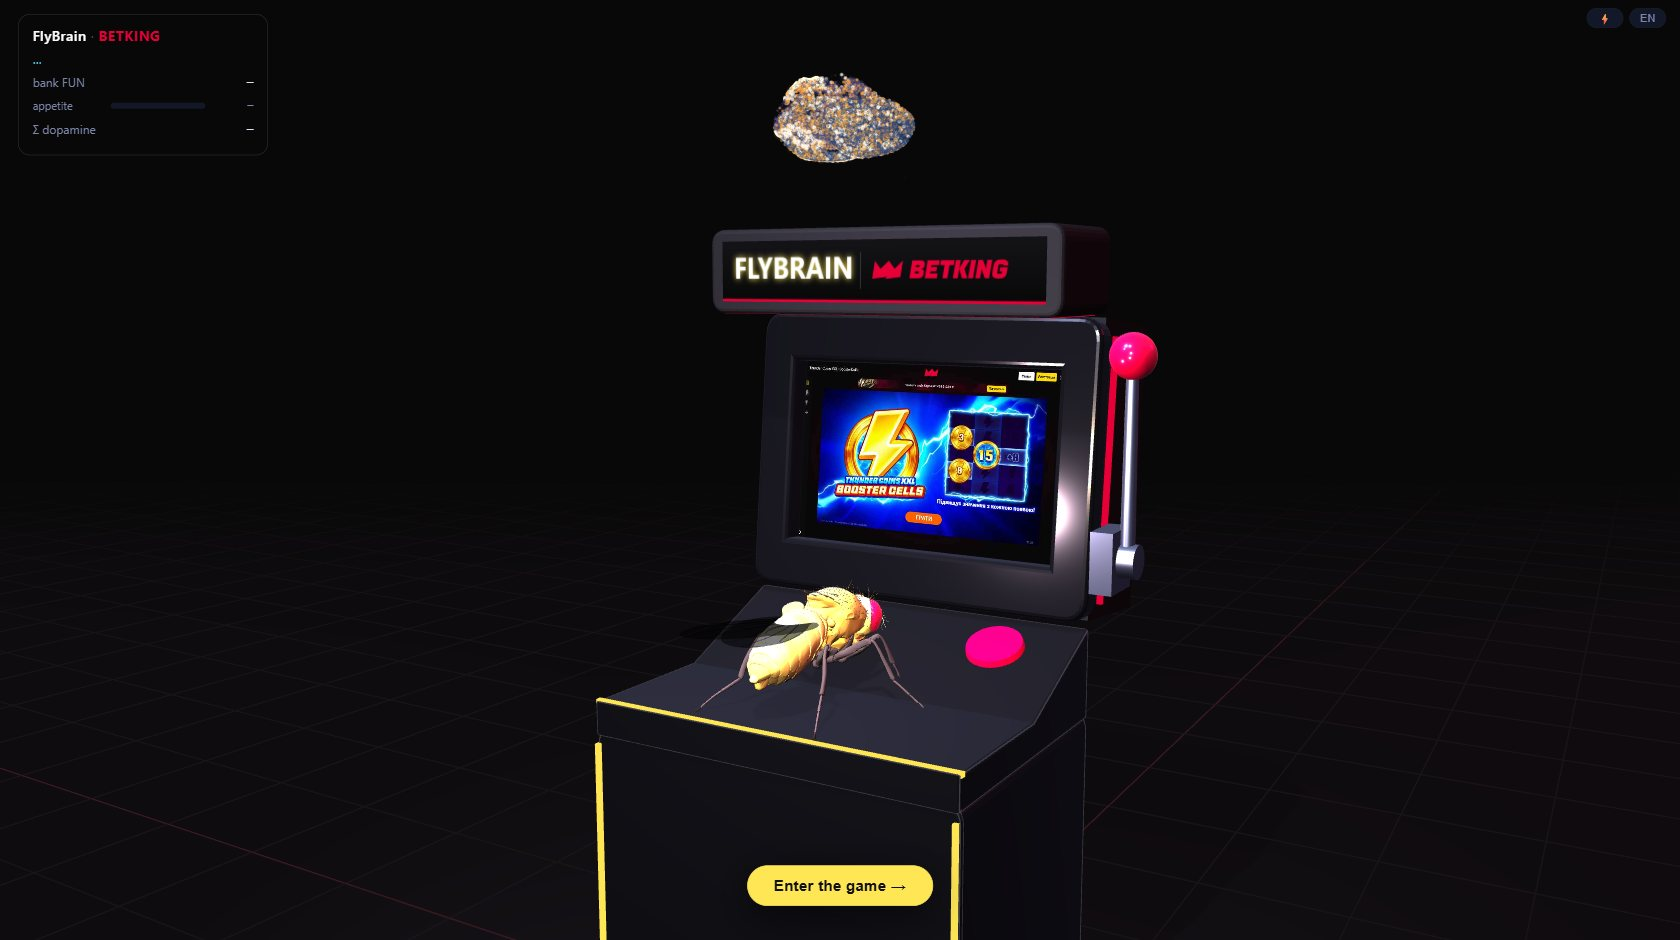
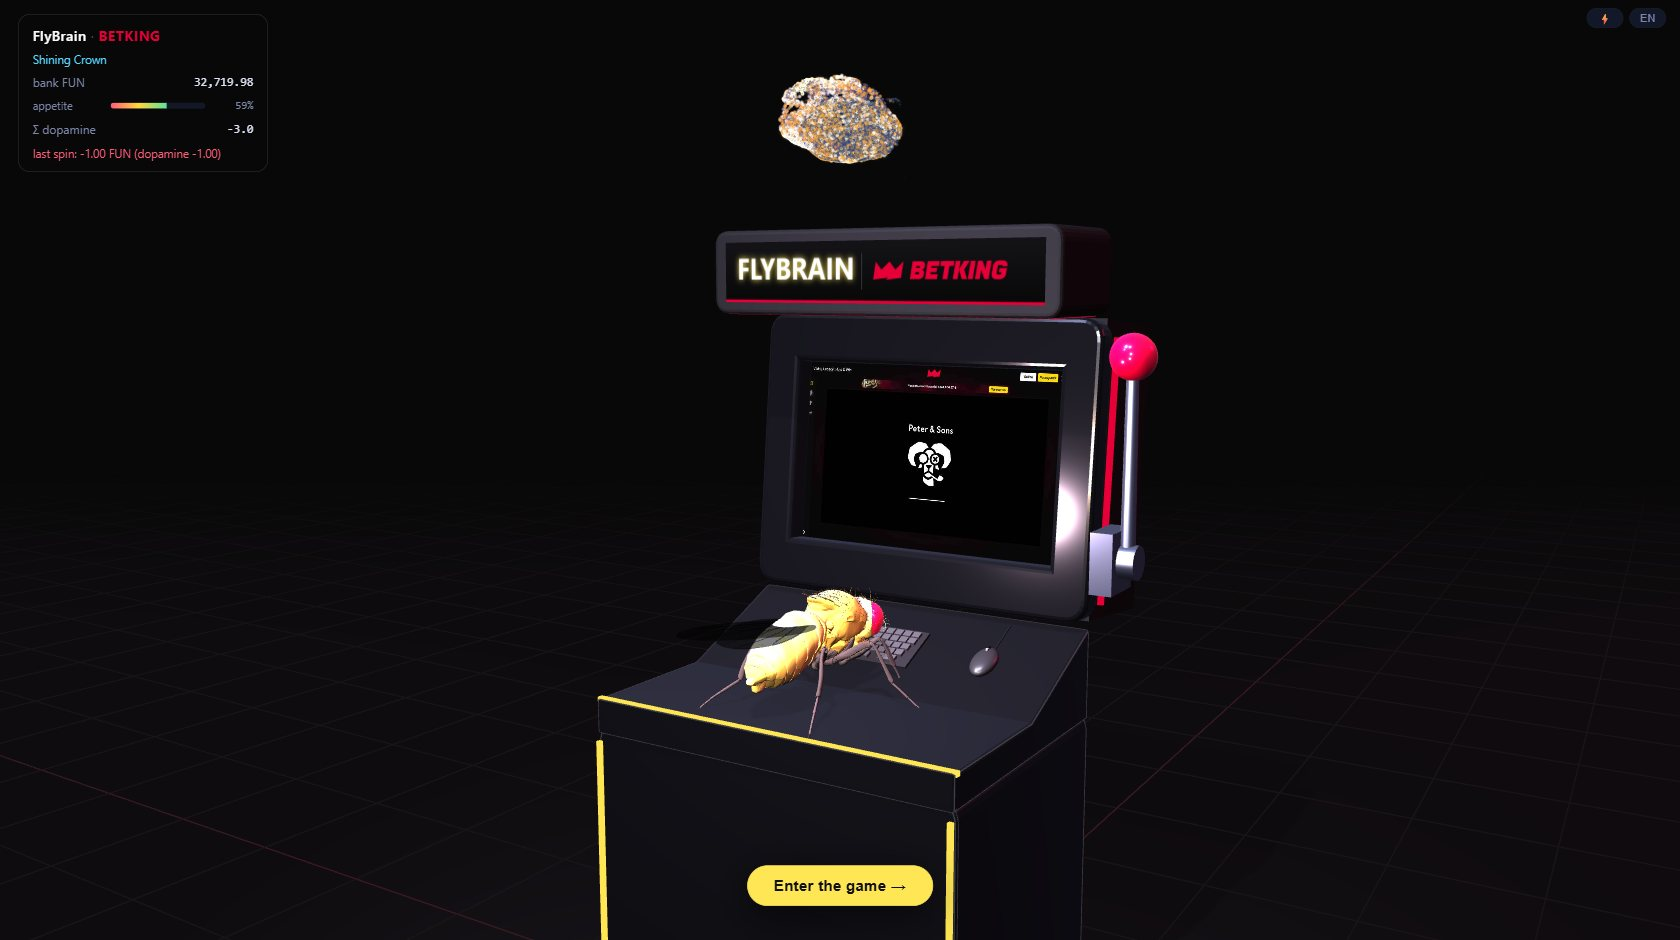
arcade: mini keyboard + mouse on the deck instead of the big button (mouse clicks on decisions, space bar for Space actions); model load retries instead of a placeholder sphere (the giant ball after a restart); casino: guard failures leave the game instead of crashing, reset() retries the site; gene

diff --git a/viz/index.html b/viz/index.html
@@ -509,7 +509,7 @@ async function loadBrain() {
   haloPrev = new Uint8Array(HN); haloCur = new Uint8Array(HN); haloIdx = hidx;
   hgeo.setAttribute('position', new THREE.BufferAttribute(hp, 3)); hgeo.setAttribute('aBase', new THREE.BufferAttribute(hb, 3)); hgeo.setAttribute('aGroup', new THREE.BufferAttribute(hg, 1));
   hgeo.setAttribute('aPrev', new THREE.BufferAttribute(haloPrev, 1, true)); hgeo.setAttribute('aCur', new THREE.BufferAttribute(haloCur, 1, true));
-  halo = new THREE.Points(hgeo, haloMat); points = new THREE.Points(geo, brainMat); if (lite) { renderer.shadowMap.enabled = false; halo.visible = false; brainMat.uniforms.uPixelRatio.value = haloMat.uniforms.uPixelRatio.value = 1; }
+  halo = new THREE.Points(hgeo, haloMat); points = new THREE.Points(geo, brainMat); if (lite) { halo.visible = false; brainMat.uniforms.uPixelRatio.value = haloMat.uniforms.uPixelRatio.value = 1; }
   geo.computeBoundingBox(); brainMid = (geo.boundingBox.min.y + geo.boundingBox.max.y) / 2;
   { let lo = 1e9, hi = -1e9; for (let i = 0; i < N; i++) { const y = posArr[i * 3 + 1]; if (y < NECK) continue; if (y < lo) lo = y; if (y > hi) hi = y; } brainTop = (lo + hi) / 2; }   // centre of the brain proper (above the neck)
   brainGroup.add(halo); brainGroup.add(points);
@@ -694,6 +694,7 @@ function applySkin(name) {
   for (const m of [MAT.thorax, MAT.body]) { m.roughness = k.rough ?? 0.55; m.clearcoat = k.coat ?? 0.3; m.envMapIntensity = k.coat ? 0.55 : 0.4; }
   for (const m of [MAT.thorax, MAT.body, MAT.legs]) if (m.userData.shader) { m.userData.shader.uniforms.uFuzz.value.set(k.fuzz); if (m !== MAT.legs) m.userData.shader.uniforms.uDark.value = k.stripes; }
 }
+function loadFly() { if (fly.ready) return;
 new THREE.GLTFLoader().load(modelName === 'nmf' ? '/assets/drosophila.glb' : '/assets/drosophila-flybody.glb', gltf => {
   const model = gltf.scene; let legsMesh = null, bodyMesh = null;
   model.traverse(o => { if (!o.isMesh) return; const n = o.name.toLowerCase(); if (!n.includes('wing')) o.geometry = smoothGeometry(o.geometry);
@@ -746,7 +747,9 @@ new THREE.GLTFLoader().load(modelName === 'nmf' ? '/assets/drosophila.glb' : '/a
   model.traverse(o => { if (o.isMesh && !o.material.transparent) { o.castShadow = true; o.receiveShadow = true; } });
   fly.len = Math.max(size.x, size.y, size.z); fly.model = model; flyRoot.add(model); fly.ready = true;
   if (view === 'arcade') flyRoot.scale.setScalar(0.5 / fly.len); else layout();
-}, undefined, err => { console.warn('drosophila.glb failed', err); const m = new THREE.Mesh(new THREE.SphereGeometry(1, 16, 12), MAT.body); m.scale.set(1, 0.8, 1.6); flyRoot.add(m); fly.len = 3.2; fly.ready = true; layout(); });
+}, undefined, err => { console.warn('fly model failed to load, retrying', err); setTimeout(loadFly, 2500); });   // e.g. the fly restarting mid-load: retry, never a placeholder
+}
+loadFly();
 
 // smoke: a small pool of soft sprites rising from the ember
 const smokeTex = (() => { const c = document.createElement('canvas'); c.width = c.height = 64; const x = c.getContext('2d'); const g = x.createRadialGradient(32, 32, 2, 32, 32, 30); g.addColorStop(0, 'rgba(230,235,245,0.9)'); g.addColorStop(0.5, 'rgba(210,218,235,0.35)'); g.addColorStop(1, 'rgba(200,210,230,0)'); x.fillStyle = g; x.fillRect(0, 0, 64, 64); return new THREE.CanvasTexture(c); })();
@@ -859,8 +862,25 @@ function marqueeTexture() {   // "FLYBRAIN" and the BETKING logo (crown + wordma
   // buttons on the slope
   const slopeAng = Math.atan2(deckBack - ledgeH, deckDepth - 0.4);
   const onSlope = (mesh, u, along) => { const z0 = 0.02 + deckDepth / 2 - 0.4, y0 = pedTop + ledgeH; mesh.position.set(u, y0 + Math.sin(slopeAng) * along + 0.012 * Math.cos(slopeAng), z0 - Math.cos(slopeAng) * along - 0.012 * Math.sin(slopeAng)); mesh.rotation.x = slopeAng; cabinet.add(mesh); };
-  const spinBtn = new THREE.Mesh(new THREE.CylinderGeometry(0.075, 0.08, 0.035, 32), new THREE.MeshPhysicalMaterial({ color: BK.red, emissive: BK.red, emissiveIntensity: 0.35, roughness: 0.3, clearcoat: 1 })); onSlope(spinBtn, 0.3, 0.24); cabinet.userData.spin = spinBtn;
-  [BK.yellow, BK.green, 0xffad33].forEach((col, i) => { const b = new THREE.Mesh(new THREE.CylinderGeometry(0.032, 0.035, 0.025, 24), new THREE.MeshPhysicalMaterial({ color: col, emissive: col, emissiveIntensity: 0.3, roughness: 0.3, clearcoat: 1 })); onSlope(b, -0.34 + i * 0.1, 0.27); });
+  // the fly works a web page, so the deck carries what a kiosk would: a mini keyboard and a mouse
+  // (a group placed on the slope; "lift" = height above the slope surface, the group's y axis is the slope normal)
+  const onSlopeGroup = (u, along) => { const g = new THREE.Group(); onSlope(g, u, along); g.position.y -= 0.012 * Math.cos(slopeAng); g.position.z += 0.012 * Math.sin(slopeAng); return g; };
+  const kb = onSlopeGroup(-0.1, 0.19); cabinet.userData.keyboard = kb;
+  const kbBase = new THREE.Mesh(new THREE.BoxGeometry(0.40, 0.014, 0.15), new THREE.MeshStandardMaterial({ color: 0x23232a, roughness: 0.6, metalness: 0.3 })); kbBase.position.y = 0.007; kb.add(kbBase);
+  const keyGeo = new THREE.BoxGeometry(0.022, 0.008, 0.022), keyMat = new THREE.MeshStandardMaterial({ color: 0x3a3a44, roughness: 0.55, metalness: 0.1 });
+  const rows = [14, 14, 13, 12], keys = new THREE.InstancedMesh(keyGeo, keyMat, rows.reduce((a, b) => a + b, 0)); const km = new THREE.Matrix4(); let ki = 0;
+  rows.forEach((n, r) => { const w = n * 0.0265; for (let i = 0; i < n; i++) { km.makeTranslation(-w / 2 + 0.0265 * i + 0.013 + (r === 2 ? 0.006 : r === 3 ? 0.014 : 0), 0.018, -0.052 + r * 0.0265); keys.setMatrixAt(ki++, km); } });
+  keys.instanceMatrix.needsUpdate = true; kb.add(keys);
+  const space = new THREE.Mesh(new THREE.BoxGeometry(0.16, 0.008, 0.022), new THREE.MeshStandardMaterial({ color: 0x3a3a44, roughness: 0.55, metalness: 0.1, emissive: BK.yellow, emissiveIntensity: 0 })); space.position.set(0.0, 0.018, 0.054); kb.add(space); cabinet.userData.space = space;
+  [[-0.135, 0.054, 0.05], [0.135, 0.054, 0.05]].forEach(([x, z, w]) => { const k = new THREE.Mesh(new THREE.BoxGeometry(w, 0.008, 0.022), keyMat); k.position.set(x, 0.018, z); kb.add(k); });
+  const pad = onSlopeGroup(0.3, 0.19);
+  const padMesh = new THREE.Mesh(new THREE.BoxGeometry(0.22, 0.004, 0.18), new THREE.MeshStandardMaterial({ color: 0x15151a, roughness: 0.95 })); padMesh.position.y = 0.002; pad.add(padMesh);
+  const mouse = new THREE.Group(); mouse.position.set(0.0, 0.004, 0.01); pad.add(mouse); cabinet.userData.mouse = mouse;
+  const mBody = new THREE.Mesh(new THREE.SphereGeometry(1, 28, 18), new THREE.MeshPhysicalMaterial({ color: 0x2b2b33, roughness: 0.35, metalness: 0.2, clearcoat: 0.6, clearcoatRoughness: 0.3 })); mBody.scale.set(0.034, 0.02, 0.055); mBody.position.y = 0.014; mouse.add(mBody);
+  const mSeam = new THREE.Mesh(new THREE.BoxGeometry(0.002, 0.012, 0.03), new THREE.MeshBasicMaterial({ color: 0x0a0a0d })); mSeam.position.set(0, 0.026, -0.03); mouse.add(mSeam);
+  const wheel = new THREE.Mesh(new THREE.CylinderGeometry(0.006, 0.006, 0.006, 16), new THREE.MeshStandardMaterial({ color: 0x55555f, roughness: 0.5 })); wheel.rotation.z = Math.PI / 2; wheel.position.set(0, 0.031, -0.028); mouse.add(wheel);
+  const led = new THREE.Mesh(new THREE.BoxGeometry(0.012, 0.002, 0.006), new THREE.MeshBasicMaterial({ color: BK.red })); led.position.set(0, 0.013, -0.04); mouse.add(led); cabinet.userData.mouseLed = led;
+  const cable = new THREE.Mesh(new THREE.CylinderGeometry(0.0025, 0.0025, 0.12, 8), new THREE.MeshStandardMaterial({ color: 0x111114, roughness: 0.8 })); cable.rotation.x = Math.PI / 2; cable.position.set(0, 0.006, -0.11); mouse.add(cable);
   // head: body box behind, bevelled frame in front, the screen recessed inside the frame's hole
   const headY = pedTop + deckBack + 0.42, tilt = -0.1;
   const headZ = -0.02 - deckDepth / 2;
@@ -880,7 +900,7 @@ function marqueeTexture() {   // "FLYBRAIN" and the BETKING logo (crown + wordma
   const glow = new THREE.PointLight(0xffd7dc, 1.1, 3.5, 2); glow.position.set(0, headY - 0.1, 0.55); cabinet.add(glow); cabinet.userData.glow = glow;
   const spot = new THREE.SpotLight(0xdfe6ff, 1.1, 9, 0.5, 0.6, 1.5); spot.position.set(0.4, 4.2, 1.6); spot.target.position.set(0, 1.2, 0.1); arcade.add(spot); arcade.add(spot.target);
   // shadows: the fly and the cabinet cast, the deck and the floor receive; one 1024^2 map, off in lite mode
-  spot.castShadow = true; spot.shadow.mapSize.set(1024, 1024); spot.shadow.bias = -0.0005; spot.shadow.radius = 3; spot.shadow.camera.near = 1; spot.shadow.camera.far = 9; arcade.userData.shadowLight = spot;
+  spot.castShadow = true; spot.shadow.mapSize.set(1024, 1024); spot.shadow.bias = -0.0005; spot.shadow.radius = 3; spot.shadow.camera.near = 1; spot.shadow.camera.far = 9; arcade.userData.shadowLight = spot; try { if (localStorage.getItem('fly.lite') === '1') spot.castShadow = false; } catch (e) {}
   cabinet.traverse(o => { if (o.isMesh) { o.castShadow = true; o.receiveShadow = true; } });
   const floor = new THREE.Mesh(new THREE.PlaneGeometry(40, 40), new THREE.MeshStandardMaterial({ color: 0x0a0a0d, roughness: 0.85, metalness: 0.15 })); floor.rotation.x = -Math.PI / 2; floor.receiveShadow = true; arcade.add(floor);
   const grid = new THREE.GridHelper(40, 80, 0x3a1a22, 0x1a1418); grid.position.y = 0.002; arcade.add(grid);
@@ -932,7 +952,7 @@ function updateHud(c) {
 
 // ================================================================== browser card: live MJPEG + overlay
 const overlay = $('overlay'), octx = overlay.getContext('2d');
-let links = [], chosen = -1, ripple = null, k = 1, lastDecisionAt = -1e9, ghostGrid = false;
+let links = [], chosen = -1, ripple = null, k = 1, lastDecisionAt = -1e9, lastDecisionKey = false, ghostGrid = false;
 const live = $('live'), shot = $('shot');
 let liveOk = false;
 live.onload = () => { liveOk = true; live.style.display = 'block'; };          // first frame of the stream decoded
@@ -946,7 +966,7 @@ function applyLite(on, say) {
   if (brainMat) brainMat.uniforms.uPixelRatio.value = haloMat.uniforms.uPixelRatio.value = on ? 1 : Math.min(devicePixelRatio, 2);
   if (halo) halo.visible = !on;
   furMeshes.forEach(m => m.visible = !on);
-  renderer.shadowMap.enabled = !on; if (arcade.userData.shadowLight) arcade.userData.shadowLight.castShadow = !on; renderer.shadowMap.needsUpdate = true;
+  if (arcade.userData.shadowLight) arcade.userData.shadowLight.castShadow = !on;   // (never toggle renderer.shadowMap.enabled at run time: stale programs)
   $('litebtn').classList.toggle('on', on);
   const want = on ? '/stream.mjpg?fps=30' : '/stream.mjpg'; if (!live.src.endsWith(want)) { liveOk = false; live.src = want; }
   resize();
@@ -1107,7 +1127,7 @@ es.onmessage = ev => {
     setFlyLabel(flyCtl.broke ? t('fly_smoke') : flyCtl.paused ? t('fly_shooed') : m.casino && m.casino.phase === 'lobby' ? t('fly_lobby') : m.casino && m.casino.kind === 'generic' ? t('fly_explore') : m.casino ? t('fly_slots') : t('fly_look'));
     log(m.casino ? t(m.casino.phase === 'lobby' ? 'log_lobby' : 'log_slot', fmt(m.casino.balance), m.links.length) : t('log_page', m.url.replace(/^https?:\/\/[^/]+/, '') || '/', m.links.length));
   } else if (m.t === 'decision') {
-    chosen = m.a; lastDecisionAt = performance.now(); renderLinks(m.p); drawOverlay(); showTip(chosen);
+    chosen = m.a; lastDecisionAt = performance.now(); lastDecisionKey = !!(links[chosen] && /^game:space/.test(links[chosen].url)); renderLinks(m.p); drawOverlay(); showTip(chosen);
     if (links[chosen]) { const [sx, sy] = linkScreen(links[chosen].box); flyTo(toWorld(sx, sy, 6), 'landed', links[chosen].box); setFlyLabel(t('fly_fly'));
       $('status').textContent = t('st_click', links[chosen].text || links[chosen].url); log(t('log_decision', chosen, links[chosen].text || links[chosen].url, (m.p[chosen] * 100).toFixed(1)) + (links[chosen].box[2] <= 0 ? t('hidden_link') : ''), 'act'); }
   } else if (m.t === 'reward') {
@@ -1219,7 +1239,9 @@ function animate(now) {
     arcadeCam.lookAt(0, 1.58, 0.05);
     updateVideoTexture();
     cabinet.userData.glow.intensity = 1.1 + 0.3 * Math.sin(t0 * 2.3) + 0.2 * Math.sin(t0 * 5.1);
-    cabinet.userData.spin.material.emissiveIntensity = 0.3 + 0.9 * Math.max(0, 1 - (now - lastDecisionAt) / 700);
+    { const u = clamp((now - lastDecisionAt) / 500, 0, 1), press = u < 1 ? Math.sin(u * Math.PI) : 0;   // a click: the mouse dips, its LED blinks; Space actions press the space bar instead
+      const keyAct = lastDecisionKey; cabinet.userData.mouse.position.y = 0.004 - (keyAct ? 0 : press * 0.004); cabinet.userData.mouseLed.material.color.setHex(press > 0.3 && !keyAct ? 0xffffff : BK.red);
+      cabinet.userData.space.position.y = 0.018 - (keyAct ? press * 0.005 : 0); cabinet.userData.space.material.emissiveIntensity = keyAct ? press * 1.5 : 0; }
     { const u = clamp((now - lastDecisionAt) / 900, 0, 1);              // pull (fast) then spring back (slow)
       const pull = u < 0.25 ? u / 0.25 : 1 - (u - 0.25) / 0.75; cabinet.userData.lever.rotation.x = -1.9 * Math.sin(pull * Math.PI / 2); }
     if (points) { brainGroup.rotation.set(0.1, t0 * 0.15, 0); }

diff --git a/fly/casino.py b/fly/casino.py
@@ -554,11 +554,18 @@ class CasinoEnv:
             why = self.drive.reason
             self.drive.close_slot(why)
             print(f"casino: leaving '{self.cur_name}' ({why}), looking for another slot")
-        if self.lobby and self._open_lobby():        # phase 1: pick a slot from the Amusnet list
-            return self._observe()
-        self._open_game(self.game)
-        self._register_slot(self.game)
-        return self._observe()
+        for attempt in range(3):                     # phase 1: pick a slot from the lobby; the site can hiccup
+            if self.lobby and self._open_lobby():
+                return self._observe()
+            try:
+                self._open_game(self.game)
+                self._register_slot(self.game)
+                return self._observe()
+            except Exception as e:                   # aborted navigation, no FUN yet ... : wait, try again
+                print(f"casino: could not open a game ({str(e)[:80]}), retrying in 8 s")
+                self.page.wait_for_timeout(8000)
+                self._tick_brain()
+        raise RuntimeError("the casino site is not answering")
 
     def _register_slot(self, url: str, name: str | None = None):
         m = re.search(r"game=([^&]+)", url)
@@ -747,13 +754,18 @@ class CasinoEnv:
                 print(f"casino: {card['name']} did not open ({str(e)[:80]}), back to the lobby")
                 self.drive.note_open_failure(card["slug"], card["name"])
                 if not self._open_lobby():
-                    self._open_game(self.game)
-                    self._register_slot(self.game)
+                    self.page.wait_for_timeout(5000)
+                    return self.reset(), 0.0, False   # reset() retries lobby / default game with pauses
             return self._observe(), 0.0, False
         if self.kind == "generic":
             return self._step_generic(action)
         frame = self.game_frame()
-        self._demo_check(frame)
+        try:
+            self._demo_check(frame)
+        except RuntimeError as e:                    # FUN not shown (client reloading?): leave the game, no crash
+            print(f"casino: leaving '{self.cur_name}': {e}")
+            self.drive.reason = "unplayable"
+            return self._observe(), 0.0, True
         if self.bonus_i is not None and action == self.bonus_i:
             return self._step_bonus()
         before = self._read()
@@ -874,6 +886,12 @@ class CasinoEnv:
                 break                                # nothing happened on the wire: next try
         snap = self.sniffer.snapshot()
         self.balance = snap["balance"]
+        # a win is only real if this very action cost something: jackpot tickers and promo counters on the
+        # wire ("win": 8001481) must never be credited; and no slot pays more than 2000x the stake
+        if stake is None:
+            win = None
+        elif win is not None:
+            win = min(win, stake * 2000.0)
         if stake is None and win is None:
             self.explored += 1
             self._note_explored(1)

diff --git a/README.md b/README.md
@@ -203,6 +203,8 @@ terminal was closed or the process killed).
   screencast runs on a second CDP connection in its own thread, so its frame acks never wait for the
   brain: ~100 frames/s from the fly's browser, paced to 60 for local viewers;
 * shadows in the arcade: one 1024² map from the spot above the cabinet (~0.1 ms on an RTX; off in lite mode);
+* the cabinet's deck carries a mini keyboard and a mouse (the fly works a web page): the mouse clicks on every
+  decision, the space bar goes down for Space actions, the one-armed-bandit lever pulls too;
 * the brain keeps running while the environment waits (the reels spin for seconds) — it looks at the
   live frames, so the activity is continuous rather than a burst at each decision;
 * the point cloud is shaded on the GPU (two Uint8 activity attributes, interpolated in the vertex
